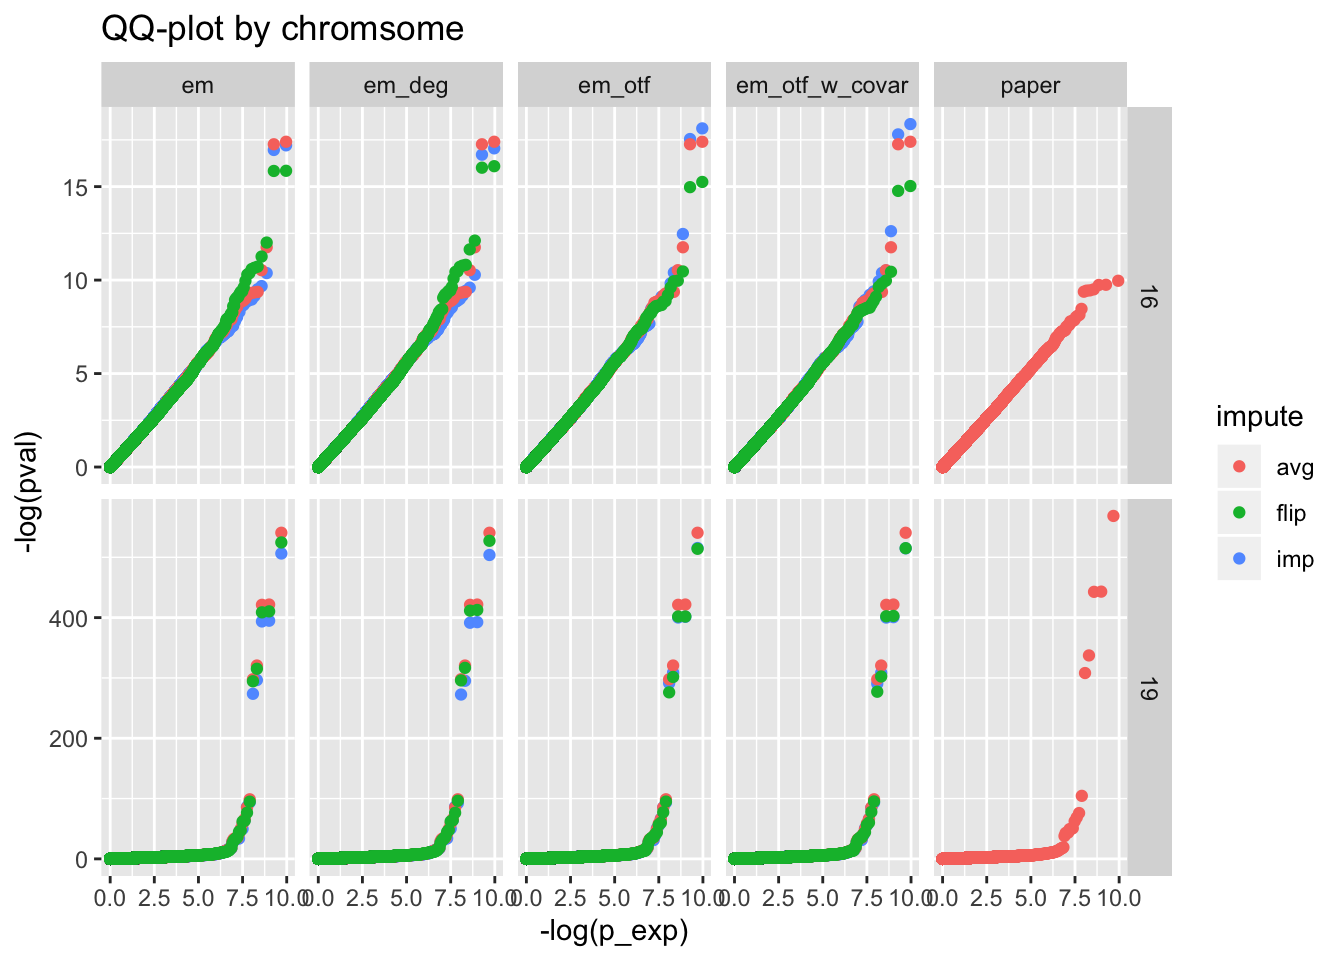
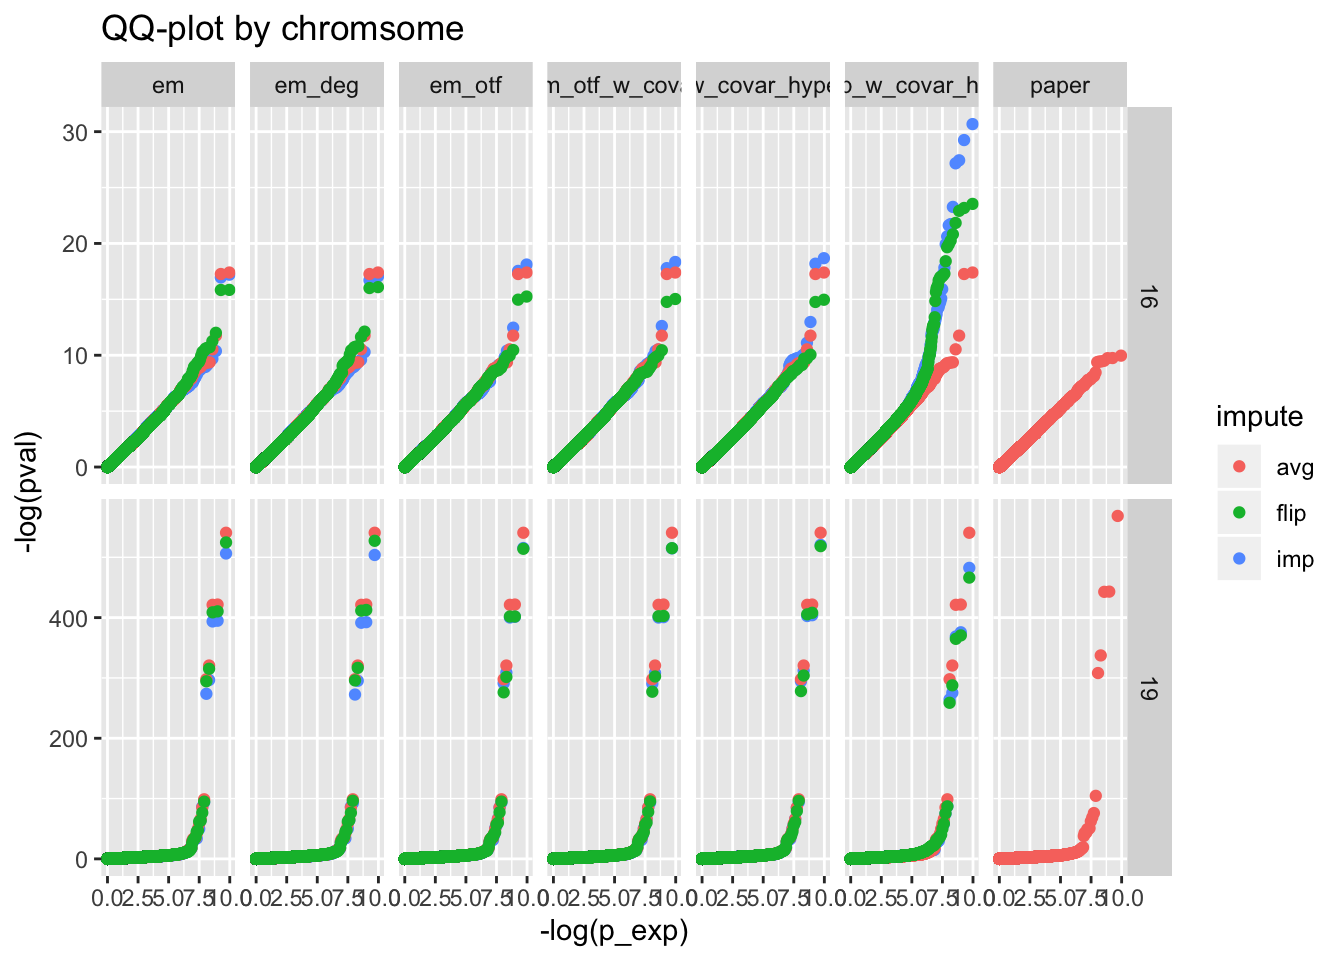
added submit scripts for lambda

Changed region(s): [[0.0312, 0.0625, 0.8438, 0.9688], [0.0312, 0.1875, 0.0938, 0.2188], [0.0312, 0.125, 0.0938, 0.1562]]

diff --git a/docs/sanity_check.html b/docs/sanity_check.html
@@ -382,7 +382,7 @@ div.tocify {
 
 
 <h1 class="title toc-ignore">Sanity check on first pass effort</h1>
-<h4 class="date">Last update: May 13, 2020</h4>
+<h4 class="date">Last update: May 18, 2020</h4>
 
 </div>
 
@@ -439,14 +439,20 @@ signed_beta = function(beta, allele_ids, a1, a2) {
   obeta[ref == a2 &amp; alt == a1] = beta[ref == a2 &amp; alt == a1]
   obeta[ref == a1 &amp; alt == a2] = -beta[ref == a1 &amp; alt == a2]
   return(obeta)
+}
+get_id = function(id) {
+  unlist(lapply(strsplit(id, &#39;:&#39;), function(x) {
+    paste0(x[1], &#39;:&#39;, x[2])
+  }))
 }</code></pre>
 <pre class="r"><code>snp_map = fread(&#39;zcat &lt; ~/Desktop/tmp/haplotype-po/snp_map_for_neale_lab_gwas.with_sign.tsv.gz&#39;, header = TRUE, sep = &#39;\t&#39;)
 gwas_father = fread(&#39;~/Downloads/2_UKB_AD_paternal_summary_output_June2019.txt&#39;, sep = &#39; &#39;)
 
-methods = data.frame(method = c(&#39;em&#39;, &#39;em_deg&#39;, &#39;em_otf&#39;, &#39;em_otf_w_covar&#39;), prefix = c(&#39;test_sanity_imputer_chr&#39;, &#39;test_sanity_imputer_deg_chr&#39;, &#39;test_sanity_imputer_otf_chr&#39;, &#39;test_sanity_imputer_otf_w_covar_chr&#39;))
+methods = data.frame(method = c(&#39;em&#39;, &#39;em_deg&#39;, &#39;em_otf&#39;, &#39;em_otf_w_covar&#39;, &#39;em_otf_w_covar_hypertension&#39;, &#39;em_per_snp_w_covar_hypertension&#39;), prefix = c(&#39;test_sanity_imputer_chr&#39;, &#39;test_sanity_imputer_deg_chr&#39;, &#39;test_sanity_imputer_otf_chr&#39;, &#39;test_sanity_imputer_otf_w_covar_chr&#39;, &#39;test_sanity_imputer_otf_w_covar_hypertension_chr&#39;, &#39;test_sanity_imputer_otf_per_snp_w_covar_hypertension_chr&#39;))
 dl = list()
 dl[[1]] = list()
 dl[[2]] = list()
+dl[[3]] = list()
 for(chr_num in c(16, 19)) {
   pos = snp_map %&gt;% filter(chrom == chr_num) %&gt;% pull(pos)
   for(m in 1 : nrow(methods)) {
@@ -462,10 +468,22 @@ for(chr_num in c(16, 19)) {
       df = df %&gt;% mutate(chr = chr_num, method = methods$method[m])
       dl[[i]][[length(dl[[i]]) + 1]] = df
     }
+    if(methods$method[m] %in% c(&#39;em_otf_w_covar_hypertension&#39;, &#39;em_per_snp_w_covar_hypertension&#39;)) {
+      if(!file.exists(paste0(&#39;/Users/yanyul/Desktop/tmp/haplotype-po/&#39;, methods$prefix[m], chr_num, &#39;.npy&#39;))) {
+        next
+      }
+      df = read_from_npy(
+        paste0(&#39;/Users/yanyul/Desktop/tmp/haplotype-po/&#39;, methods$prefix[m], chr_num, &#39;.npy&#39;),
+        pos, 
+        3
+      )
+      df = df %&gt;% mutate(chr = chr_num, method = methods$method[m])
+      dl[[3]][[length(dl[[3]]) + 1]] = df
+    }
   }
 }
 df = list()
-info = c(&#39;HD&#39;, &#39;AD&#39;)
+info = c(&#39;HD&#39;, &#39;AD&#39;, &#39;HT&#39;)
 for(i in 1 : length(info)) {
   df[[i]] = do.call(rbind, dl[[i]]) %&gt;% mutate(trait = info[i])
 }
@@ -486,9 +504,9 @@ df_ad = rbind(
   extract_snp %&gt;% select(beta, SE, pos, impute, chrom, method) %&gt;% rename(se = SE, position = pos, chr = chrom)
 )
 df_ad %&gt;% group_by(method, impute) %&gt;% summarize(nsnp = n()) %&gt;% pander</code></pre>
-<table style="width:49%;">
+<table style="width:72%;">
 <colgroup>
-<col width="23%" />
+<col width="47%" />
 <col width="12%" />
 <col width="12%" />
 </colgroup>
@@ -561,6 +579,36 @@ df_ad %&gt;% group_by(method, impute) %&gt;% summarize(nsnp = n()) %&gt;% pander
 <td align="center">37484</td>
 </tr>
 <tr class="odd">
+<td align="center">em_otf_w_covar_hypertension</td>
+<td align="center">avg</td>
+<td align="center">37484</td>
+</tr>
+<tr class="even">
+<td align="center">em_otf_w_covar_hypertension</td>
+<td align="center">flip</td>
+<td align="center">37484</td>
+</tr>
+<tr class="odd">
+<td align="center">em_otf_w_covar_hypertension</td>
+<td align="center">imp</td>
+<td align="center">37484</td>
+</tr>
+<tr class="even">
+<td align="center">em_per_snp_w_covar_hypertension</td>
+<td align="center">avg</td>
+<td align="center">37511</td>
+</tr>
+<tr class="odd">
+<td align="center">em_per_snp_w_covar_hypertension</td>
+<td align="center">flip</td>
+<td align="center">37511</td>
+</tr>
+<tr class="even">
+<td align="center">em_per_snp_w_covar_hypertension</td>
+<td align="center">imp</td>
+<td align="center">37510</td>
+</tr>
+<tr class="odd">
 <td align="center">paper</td>
 <td align="center">avg</td>
 <td align="center">36869</td>
@@ -573,7 +621,7 @@ df_ad %&gt;% group_by(method, impute) %&gt;% summarize(nsnp = n()) %&gt;% pander
 <pre class="r"><code>df_paper = df_ad %&gt;% filter(method == &#39;paper&#39;)
 df_paper_plot = df_paper %&gt;% inner_join(df_ad %&gt;% filter(method != &#39;paper&#39;), by = c(&#39;position&#39;, &#39;chr&#39;), suffix = c(&#39;_paper&#39;, &#39;_other&#39;))
 df_paper_plot %&gt;% ggplot() + geom_point(aes(x = beta_paper, y = beta_other), alpha = .2) + facet_grid(method_other~impute_other) + ggtitle(&#39;paper beta vs my beta&#39;) + geom_abline(slope = 1, intercept = 0, color = &#39;gray&#39;)</code></pre>
-<p><img src="sanity_check_files/figure-html/ad_beta-1.png" width="672" /></p>
+<p><img src="sanity_check_files/figure-html/ad_beta-1.png" width="480" /></p>
 <pre class="r"><code># compare em vs em_deg
 df_ad_plot = df_ad %&gt;% filter(method %in% c(&#39;em&#39;, &#39;em_deg&#39;)) %&gt;% reshape2::dcast(position + impute + chr ~ method, value.var = &#39;beta&#39;)
 df_ad_plot %&gt;% ggplot() + geom_point(aes(x = em, y = em_deg), alpha = 0.2) + facet_wrap(~impute) + ggtitle(&#39;compare em vs em_deg: beta&#39;)</code></pre>
@@ -583,6 +631,15 @@ df_ad_plot %&gt;% ggplot() + geom_point(aes(x = em, y = em_deg), alpha = 0.2) + 
 df_ad_plot %&gt;% ggplot() + geom_point(aes(x = em, y = em_deg), alpha = 0.2) + facet_wrap(~impute) + ggtitle(&#39;compare em vs em_deg: se&#39;)</code></pre>
 <pre><code>## Warning: Removed 81 rows containing missing values (geom_point).</code></pre>
 <p><img src="sanity_check_files/figure-html/ad_beta2-2.png" width="480" /></p>
+<pre class="r"><code># compare em vs em_deg
+df_ad_plot = df_ad %&gt;% filter(method %in% c(&#39;em_otf_w_covar_hypertension&#39;, &#39;em_per_snp_w_covar_hypertension&#39;)) %&gt;% reshape2::dcast(position + impute + chr ~ method, value.var = &#39;beta&#39;)
+df_ad_plot %&gt;% ggplot() + geom_point(aes(x = em_otf_w_covar_hypertension, y = em_per_snp_w_covar_hypertension), alpha = 0.2) + facet_wrap(~impute) + ggtitle(&#39;compare em vs em_deg: beta&#39;)</code></pre>
+<pre><code>## Warning: Removed 82 rows containing missing values (geom_point).</code></pre>
+<p><img src="sanity_check_files/figure-html/ad_beta22-1.png" width="480" /></p>
+<pre class="r"><code>df_ad_plot = df_ad %&gt;% filter(method %in% c(&#39;em_otf_w_covar_hypertension&#39;, &#39;em_per_snp_w_covar_hypertension&#39;)) %&gt;% reshape2::dcast(position + impute + chr ~ method, value.var = &#39;se&#39;)
+df_ad_plot %&gt;% ggplot() + geom_point(aes(x = em_otf_w_covar_hypertension, y = em_per_snp_w_covar_hypertension), alpha = 0.2) + facet_wrap(~impute) + ggtitle(&#39;compare em vs em_deg: se&#39;)</code></pre>
+<pre><code>## Warning: Removed 82 rows containing missing values (geom_point).</code></pre>
+<p><img src="sanity_check_files/figure-html/ad_beta22-2.png" width="480" /></p>
 </div>
 <div id="p-value" class="section level2">
 <h2><span class="header-section-number">3.3</span> P-value</h2>
@@ -622,6 +679,47 @@ p1 = df_avg_plot %&gt;% filter(chr == 16) %&gt;% ggplot() + geom_point(aes(x = -
 p2 = df_avg_plot %&gt;% filter(chr == 19) %&gt;% ggplot() + geom_point(aes(x = -log(pval_avg), y = -log(pval_other), color = impute_other), alpha = 0.3) + facet_grid(method~impute_other, scales = &#39;free&#39;) + ggtitle(&#39;Avg log p vs my log p&#39;) + geom_abline(slope = 1, intercept = 0, color = &#39;gray&#39;)
 p1 / p2</code></pre>
 <p><img src="sanity_check_files/figure-html/hd_pval-1.png" width="576" /></p>
+</div>
+</div>
+<div id="ht" class="section level1">
+<h1><span class="header-section-number">5</span> HT</h1>
+<pre class="r"><code>df_ht = df %&gt;% filter(trait == &#39;HT&#39;) %&gt;% mutate(pval = beta2pval(beta, se))</code></pre>
+<div id="neale-lab-gwas" class="section level2">
+<h2><span class="header-section-number">5.1</span> Neale lab GWAS</h2>
+<pre class="r"><code>gwas_self = fread(&#39;zcat &lt; ~/Desktop/tmp/haplotype-po/20002_1065.gwas.imputed_v3.both_sexes.tsv.bgz | grep &quot;^16:\\|^19:&quot;&#39;, header = F, sep = &#39;\t&#39;, data.table = F)
+gwas_parent = fread(&#39;zcat &lt; ~/Desktop/tmp/haplotype-po/20107_8.gwas.imputed_v3.both_sexes.tsv.bgz | grep &quot;^16:\\|^19:&quot;&#39;, header = F, sep = &#39;\t&#39;, data.table = F)
+gwas_self = gwas_self %&gt;% mutate(snp = get_id(V1))
+gwas_parent = gwas_parent %&gt;% mutate(snp = get_id(V1))
+gwas_self = gwas_self %&gt;% filter(snp %in% unique(paste0(df_ht$chr, &#39;:&#39;, df_ht$position)))
+gwas_parent = gwas_parent %&gt;% filter(snp %in% unique(paste0(df_ht$chr, &#39;:&#39;, df_ht$position)))
+gwas_ht = inner_join(gwas_self, gwas_parent, by = &#39;snp&#39;, suffix = c(&#39;.self&#39;, &#39;.parent&#39;))
+gwas_ht %&gt;% filter(V12.self &lt; 0.01, V12.parent &lt; 0.01, !V5.self, !V5.parent) %&gt;% ggplot() + geom_point(aes(x = V9.self, y = V9.parent)) </code></pre>
+<p><img src="sanity_check_files/figure-html/neale-1.png" width="672" /></p>
+<pre class="r"><code>gwas_ht %&gt;% filter(V12.self &lt; 0.01, V12.parent &lt; 0.01, !V5.self, !V5.parent) %&gt;% ggplot() + geom_point(aes(x = -log(V12.self), y = -log(V12.parent))) </code></pre>
+<p><img src="sanity_check_files/figure-html/neale-2.png" width="672" /></p>
+<pre class="r"><code>gwas_ht_bonferroni = gwas_ht %&gt;% filter(V12.self &lt; 0.01 / n() | V12.parent &lt; 0.01 / n(), !V5.self, !V5.parent)
+df_ht %&gt;% filter(paste0(chr, &#39;:&#39;, position) %in% gwas_ht_bonferroni$snp) %&gt;% reshape2::dcast(position + chr + method ~ impute, value.var = &#39;pval&#39;) %&gt;% ggplot() + geom_point(aes(x = -log(avg), y = -log(flip), color = &#39;flip&#39;)) + geom_point(aes(x = -log(avg), y = -log(imp), color = &#39;imp&#39;)) + geom_abline(slope = 1, intercept = 0) + facet_grid(method~chr)</code></pre>
+<p><img src="sanity_check_files/figure-html/neale-3.png" width="672" /></p>
+<!-- ## Effect size -->
+<!-- ```{r hd_beta} -->
+<!-- df_em_avg = df_ht %>% filter(impute == 'avg') -->
+<!-- df_em_avg_plot = df_em_avg %>% inner_join(df_ht, by = c('position', 'chr'), suffix = c('_em_avg', '_other')) -->
+<!-- df_em_avg_plot %>% ggplot() + geom_point(aes(x = beta_em_avg, y = beta_other), alpha = .2) + facet_grid(chr~impute_other) + ggtitle('em avg beta vs my beta') + geom_abline(slope = 1, intercept = 0, color = 'gray') -->
+<!-- df_em_avg_plot %>% ggplot() + geom_point(aes(x = se_em_avg, y = se_other), alpha = .2) + facet_grid(chr~impute_other) + ggtitle('em avg se vs my se') + geom_abline(slope = 1, intercept = 0, color = 'gray') -->
+<!-- ``` -->
+</div>
+<div id="p-value-2" class="section level2">
+<h2><span class="header-section-number">5.2</span> P-value</h2>
+<pre class="r"><code>df_ht_qq = df_ht %&gt;% group_by(method, impute, chr) %&gt;% mutate(p_exp = rank(pval) / (n() + 1))
+df_ht_qq %&gt;% ggplot() + geom_point(aes(x = -log(p_exp), y = -log(pval), color = impute)) + facet_grid(method~chr, scales = &#39;free_y&#39;) + ggtitle(&#39;QQ-plot by chromsome&#39;)</code></pre>
+<p><img src="sanity_check_files/figure-html/ht_qq-1.png" width="672" /></p>
+<!-- ```{r hd_pval, fig.height=8, fig.width=6} -->
+<!-- df_avg = df_hd_qq %>% filter(impute == 'avg') -->
+<!-- df_avg_plot = df_avg %>% inner_join(df_hd_qq %>% filter(impute != 'avg'), by = c('position', 'chr', 'method'), suffix = c('_avg', '_other')) -->
+<!-- p1 = df_avg_plot %>% filter(chr == 16) %>% ggplot() + geom_point(aes(x = -log(pval_avg), y = -log(pval_other), color = impute_other), alpha = 0.3) + facet_grid(method~impute_other, scales = 'free') + ggtitle('Avg log p vs my log p') + geom_abline(slope = 1, intercept = 0, color = 'gray') -->
+<!-- p2 = df_avg_plot %>% filter(chr == 19) %>% ggplot() + geom_point(aes(x = -log(pval_avg), y = -log(pval_other), color = impute_other), alpha = 0.3) + facet_grid(method~impute_other, scales = 'free') + ggtitle('Avg log p vs my log p') + geom_abline(slope = 1, intercept = 0, color = 'gray') -->
+<!-- p1 / p2 -->
+<!-- ``` -->
 </div>
 </div>
 <div id="references" class="section level1 unnumbered">

diff --git a/scripts/haplotype_imputation/submission_scripts/README.md b/scripts/haplotype_imputation/submission_scripts/README.md
@@ -1,0 +1,1 @@
+Run on lambda machines.
